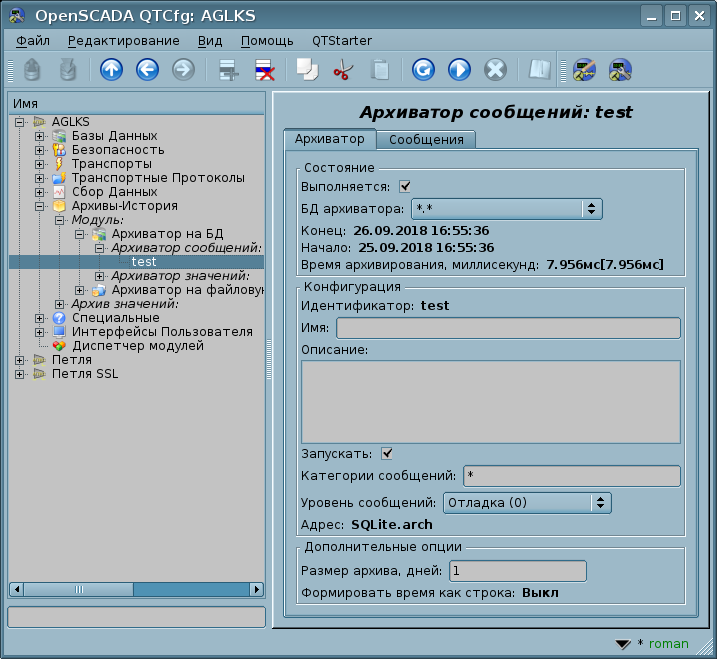
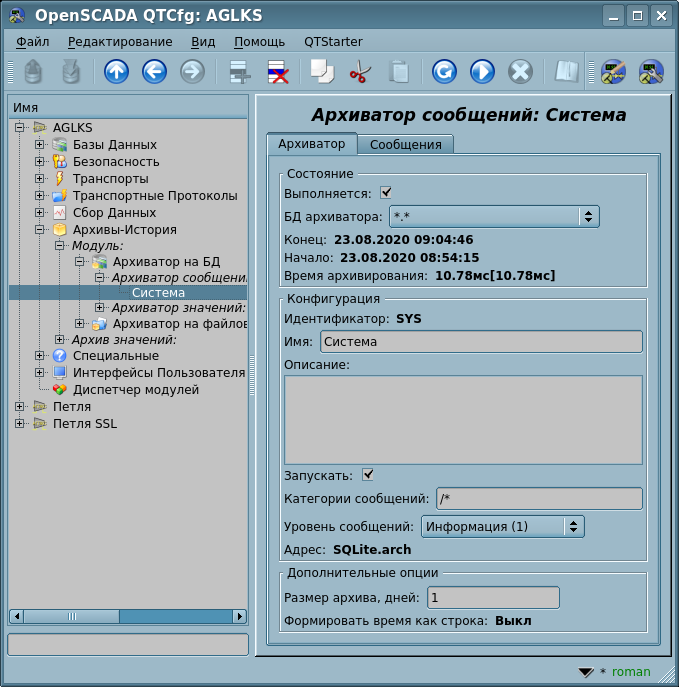
2020-08-23 Roman 0.9.2 - FIX:Archive.DBArch: Fixed for the message "Archiving time, milliseconds" removing the part ", milliseconds".
git-svn-id: svn://oscada.org/tags/openscada_0.9@2706 7bc60720-51fb-0310-bb35-cf765b5d350c

Changed region(s): [[0.0, 0.0, 1.0, 1.0]]

diff --git a/doc/ru/Release_0.9.html b/doc/ru/Release_0.9.html
@@ -308,7 +308,7 @@
 <h2><span class="mw-headline" id=".D0.9E.D0.B1.D0.BD.D0.BE.D0.B2.D0.BB.D0.B5.D0.BD.D0.B8.D1.8F"><span class="mw-headline-number">7</span> Обновления</span></h2>
 <h3><span class="mw-headline" id=".5B17.08.2020.5D_.D0.92.D0.A2.D0.9E.D0.A0.D0.9E.D0.95_.D0.BE.D0.B1.D0.BD.D0.BE.D0.B2.D0.BB.D0.B5.D0.BD.D0.B8.D0.B5"><span class="mw-headline-number">7.1</span> [17.08.2020] ВТОРОЕ обновление</span></h3>
 <div style="float:right; border:1px solid gray; width:300px; padding:2px; margin-left: 10pt; margin-bottom: 10pt;">
-<ul><li> <b>Состояние:</b> <span style="color: red">Перевод</span></li></ul>
+<ul><li> <b>Состояние:</b> Завершено</li></ul>
 <p>Общий процесс выпуска, пользователям для оценки ваших ожиданий и разработчикам для напоминания задач:<br />
 <b><u>1. Неделя подготовки и сборки:</u></b><br />
 </p>
@@ -334,8 +334,13 @@
 <li> Генерация актуальной внесетевой документации используя сервисную процедуру "<a href="Libs_Service_procedures.html#docOffLine" title="Special:MyLanguage/Libs/Service procedures">EXT: Off-line documentation</a>".</li>
 <li> Применение-выгрузка исправлений релиза в репозиторий и сборка этого на предмет второй-конечной сборки.</li></ul>
 </div>
-<p>Это обновление <a href="Release_0.9.html" title="Special:MyLanguage/Documents/Release 0.9">релиза 0.9 LTS</a> исправляет около 60 ошибок и добавляет некоторые улучшения, которые целиком вы можете почитать в <a class="external text" href="http://oscada.org/svn/tags/openscada_0.9/ChangeLog?p=2704" rel="nofollow noreferrer noopener" target="_blank">протоколе изменений обновления</a>.
-</p><p><b><u>OpenSCADA библиотеки и проекты</u></b><br />
+<p>Это обновление <a href="Release_0.9.html" title="Special:MyLanguage/Documents/Release 0.9">релиза 0.9 LTS</a> исправляет около 60 ошибок и добавляет некоторые улучшения, которые целиком вы можете почитать в <a class="external text" href="http://oscada.org/svn/tags/openscada_0.9/ChangeLog?p=2706" rel="nofollow noreferrer noopener" target="_blank">протоколе изменений обновления</a>.
+</p><p><b><u><a class="external" href="http://oscada.org/wiki/Sub-projects/Automation_Linux_distributive" title="Sub-projects/Automation Linux distributive">Linux Дистрибутив Автоматизации проекта OpenSCADA</a></u></b><br />
+</p>
+<ul><li> Завершено усовершенствование KMix в работе с PulseAudio, путём его динамизации патчем "<a class="external text" href="https://bugs.pearsoncomputing.net/show_bug.cgi?id=2782" rel="nofollow noreferrer noopener" target="_blank">kmix-UpdMixersForChangeAndChMaster.patch</a>".</li>
+<li> KRfb (VNC-сервер) был исправлен на предмет аварийного завершения и завершена реализация набора дополнительных клавиш к основной клавиатурной раскладке, в основном Кириллицы, но также и дополнительных UTF символов.</li>
+<li> Завершено обновление перевода <a class="external text" href="http://www.trinitydesktop.org/" rel="nofollow noreferrer noopener" target="_blank">проекта Окружения Рабочего Стола Trinity</a> на Украинский для частей: tdelibs, tdebase, tdenetwork, tdemultimedia, tdepim (в основном), krusader, yakuake.</li></ul>
+<p><b><u>OpenSCADA библиотеки и проекты</u></b><br />
 </p>
 <ul><li> LibsDB.OscadaLibs: Библиотеку Устройств дополнено реализацией протокола IEC-62056 (DevLib.IEC62056). Внесетевая документация дополнена документом "СОГЛАШЕНИЕ О ТЕХНИЧЕСКОЙ ПОДДЕРЖКЕ ПРОГРАММНОГО ОБЕСПЕЧЕНИЯ "OpenSCADA" версии 2 и нового модуля DB.DBGate.</li>
 <li> FIX:LibsDB.vcaBase.Main.alarmsSt: Несколько исправлено на предмет оригинальных сообщений и "quietation" целиком заменено на "confirmation". Восстановлено предотвращение дублированных записей новых нарушений в той самой категории.</li></ul>

diff --git a/doc/uk/Release_0.9.html b/doc/uk/Release_0.9.html
@@ -308,7 +308,7 @@
 <h2><span class="mw-headline" id=".D0.9E.D0.BD.D0.BE.D0.B2.D0.BB.D0.B5.D0.BD.D0.BD.D1.8F"><span class="mw-headline-number">7</span> Оновлення</span></h2>
 <h3><span class="mw-headline" id=".5B17.08.2020.5D_.D0.94.D0.A0.D0.A3.D0.93.D0.95_.D0.BE.D0.BD.D0.BE.D0.B2.D0.BB.D0.B5.D0.BD.D0.BD.D1.8F"><span class="mw-headline-number">7.1</span> [17.08.2020] ДРУГЕ оновлення</span></h3>
 <div style="float:right; border:1px solid gray; width:300px; padding:2px; margin-left: 10pt; margin-bottom: 10pt;">
-<ul><li> <b>Стан:</b> <span style="color: red">Переклад</span></li></ul>
+<ul><li> <b>Стан:</b> Завершено</li></ul>
 <p>Загальний процес випуску, користувачам для оцінки ваших очікувань та розробникам для нагадування завдань:<br />
 <b><u>1. Тиждень приготування та складання:</u></b><br />
 </p>
@@ -334,8 +334,13 @@
 <li> Генерація актуальної позамережевої документації використовуючи сервісну процедуру "<a href="Libs_Service_procedures.html#docOffLine" title="Special:MyLanguage/Libs/Service procedures">EXT: Off-line documentation</a>".</li>
 <li> Застосування-вивантаження виправлень релізу до репозиторію та складання цього щодо другої-кінцевої збірки.</li></ul>
 </div>
-<p>Це оновлення <a href="Release_0.9.html" title="Special:MyLanguage/Documents/Release 0.9">релізу 0.9 LTS</a> виправляє біля 60 помилок та додає деякі удосконалення, які цілком ви можете почитати у <a class="external text" href="http://oscada.org/svn/tags/openscada_0.9/ChangeLog?p=2704" rel="nofollow noreferrer noopener" target="_blank">протоколі змін оновлення</a>.
-</p><p><b><u>OpenSCADA бібліотеки та проекти</u></b><br />
+<p>Це оновлення <a href="Release_0.9.html" title="Special:MyLanguage/Documents/Release 0.9">релізу 0.9 LTS</a> виправляє біля 60 помилок та додає деякі удосконалення, які цілком ви можете почитати у <a class="external text" href="http://oscada.org/svn/tags/openscada_0.9/ChangeLog?p=2706" rel="nofollow noreferrer noopener" target="_blank">протоколі змін оновлення</a>.
+</p><p><b><u><a class="external" href="http://oscada.org/wiki/Sub-projects/Automation_Linux_distributive" title="Sub-projects/Automation Linux distributive">Linux Дистрибутив Автоматизації проекту OpenSCADA</a></u></b><br />
+</p>
+<ul><li> Завершено вдосконалення KMix щодо роботи із PulseAudio, шляхом його динамізації патчем "<a class="external text" href="https://bugs.pearsoncomputing.net/show_bug.cgi?id=2782" rel="nofollow noreferrer noopener" target="_blank">kmix-UpdMixersForChangeAndChMaster.patch</a>".</li>
+<li> KRfb (VNC-сервер) було виправлено стосовно аварійного завершення та завершено реалізацію набору додаткових клавіш до основної клавіатурної розкладки, переважно Кирилиці, але також і додаткових UTF символів.</li>
+<li> Завершене оновлення перекладу <a class="external text" href="http://www.trinitydesktop.org/" rel="nofollow noreferrer noopener" target="_blank">проекту Оточення Стільниці Trinity</a> Українською для частин: tdelibs, tdebase, tdenetwork, tdemultimedia, tdepim (переважно), krusader, yakuake.</li></ul>
+<p><b><u>OpenSCADA бібліотеки та проекти</u></b><br />
 </p>
 <ul><li> LibsDB.OscadaLibs: Бібліотеку Пристроїв доповнено реалізацією протоколу IEC-62056 (DevLib.IEC62056). Позамережеву документацію доповнено документом "УГОДА ПРО ТЕХНІЧНУ ПІДТРИМКУ ПРОГРАМНОГО ЗАБЕЗПЕЧЕННЯ "OpenSCADA" версії 2 та нового модуля DB.DBGate.</li>
 <li> FIX:LibsDB.vcaBase.Main.alarmsSt: Дещо виправлено щодо оригінальних повідомлень та "quietation" цілковито замінено на "confirmation". Відновлено попередження дубльованих записів нових порушень у тій самій категорії.</li></ul>

diff --git a/doc/en/Release_0.9.html b/doc/en/Release_0.9.html
@@ -308,7 +308,7 @@
 <h2><span class="mw-headline" id="Updates"><span class="mw-headline-number">7</span> Updates</span></h2>
 <h3><span class="mw-headline" id=".5B17.08.2020.5D_The_SECOND_update"><span class="mw-headline-number">7.1</span> [17.08.2020] The SECOND update</span></h3>
 <div style="float:right; border:1px solid gray; width:300px; padding:2px; margin-left: 10pt; margin-bottom: 10pt;">
-<ul><li> <b>State:</b> <span style="color: red">Translation</span></li></ul>
+<ul><li> <b>State:</b> Completed</li></ul>
 <p>The common releasing process, for the users to estimate your expectations and for the developers to remind the tasks:<br />
 <b><u>1. The preparing and building week:</u></b><br />
 </p>
@@ -334,8 +334,13 @@
 <li> Generating the actual offline documentation using the service procedure "<a href="Libs_Service_procedures.html#docOffLine" title="Special:MyLanguage/Libs/Service procedures">EXT: Off-line documentation</a>".</li>
 <li> Committing the release fixes to the repository and building that for the second-final build.</li></ul>
 </div>
-<p>This update of the <a href="Release_0.9.html" title="Special:MyLanguage/Documents/Release 0.9">0.9 LTS release</a> fixes about 60 bugs and appends some improvements, which you can read wholly in <a class="external text" href="http://oscada.org/svn/tags/openscada_0.9/ChangeLog?p=2704" rel="nofollow noreferrer noopener" target="_blank">the update ChangeLog</a>.
-</p><p><b><u>OpenSCADA libraries and projects</u></b><br />
+<p>This update of the <a href="Release_0.9.html" title="Special:MyLanguage/Documents/Release 0.9">0.9 LTS release</a> fixes about 60 bugs and appends some improvements, which you can read wholly in <a class="external text" href="http://oscada.org/svn/tags/openscada_0.9/ChangeLog?p=2706" rel="nofollow noreferrer noopener" target="_blank">the update ChangeLog</a>.
+</p><p><b><u><a class="external" href="http://oscada.org/wiki/Sub-projects/Automation_Linux_distributive" title="Sub-projects/Automation Linux distributive">Automation Linux distributive of the project OpenSCADA</a></u></b><br />
+</p>
+<ul><li> KMix was completed in improving the work with PulseAudio by making dynamic in the patch "<a class="external text" href="https://bugs.pearsoncomputing.net/show_bug.cgi?id=2782" rel="nofollow noreferrer noopener" target="_blank">kmix-UpdMixersForChangeAndChMaster.patch</a>".</li>
+<li> KRfb (VNC-server) was fixed for crashed and completed in implementation typing the additional keys to the main keyboard layout, Cyrillic mostly but allowed for additional UTF symbols also.</li>
+<li> Complete translation updating of the <a class="external text" href="http://www.trinitydesktop.org/" rel="nofollow noreferrer noopener" target="_blank">Trinity Desktop Environment project</a> to Ukrainian for the parts: tdelibs, tdebase, tdenetwork, tdemultimedia, tdepim (mostly), krusader, yakuake.</li></ul>
+<p><b><u>OpenSCADA libraries and projects</u></b><br />
 </p>
 <ul><li> LibsDB.OscadaLibs: The Devices Library appended for the protocol IEC-62056 implementation (DevLib.IEC62056). The offline documentation appended for the document "AGREEMENT ON TECHNICAL SUPPORT OF THE "OpenSCADA" SOFTWARE" version 2 and the new module DB.DBGate.</li>
 <li> FIX:LibsDB.vcaBase.Main.alarmsSt: Some fixed for the original messages and the "quietation" completely replaced by "confirmation". Restored in preventing the duplicate entries for new alarms in that category.</li></ul>

diff --git a/doc/en/To_do.html b/doc/en/To_do.html
@@ -78,7 +78,7 @@
 <tr>
 <td>
 <h3><span class="mw-headline" id="Testing.2C_optimization_and_fixing"><span class="mw-headline-number">4</span> <span id="TestOptFix" title="#TestOptFix">Testing, optimization and fixing</span></span></h3>
-<ul><li> <a class="image" href="http://oscada.org/wiki/File:At.png"><img alt="At.png" height="22" src="files/At.png" width="22" /></a> [TESTING] Implement the asynchronous writing with a function of preventing the data loss on the time of the connection missing for the key DAQ-modules of the OpenSCADA internal procedures: <a href="Modules/DAQGate.html" title="Special:MyLanguage/Modules/DAQGate">DAQGate</a>, <a href="Modules/ICP_DAS.html" title="Special:MyLanguage/Modules/ICP DAS">ICP_DAS</a>, <a href="Modules/DCON.html" title="Special:MyLanguage/Modules/DCON">DCON</a>, <a href="Modules/SMH2Gi.html" title="Special:MyLanguage/Modules/SMH2Gi">SMH2Gi</a>. The function currently tested on the module <a href="Modules/ModBus.html" title="Special:MyLanguage/Modules/ModBus">ModBus</a>.</li>
+<ul><li> <a class="image" href="http://oscada.org/wiki/File:At.png"><img alt="At.png" height="22" src="files/At.png" width="22" /></a> [TESTING] Implement the asynchronous writing with a function of preventing the data loss on the time of the connection missing for the key DAQ-modules of the OpenSCADA internal procedures: <a href="Modules/DAQGate.html" title="Special:MyLanguage/Modules/DAQGate">DAQGate</a>, <a href="Modules/ICP_DAS.html" title="Special:MyLanguage/Modules/ICP DAS">ICP_DAS</a>, <a href="Modules/DCON.html" title="Special:MyLanguage/Modules/DCON">DCON</a>. The function currently tested on the module <a href="Modules/ModBus.html" title="Special:MyLanguage/Modules/ModBus">ModBus</a>.</li>
 <li> <i>UI.{Vision,WebVision}</i>: Complete revision of the primitive "ElFigure" implementation, what needs:</li></ul>
 <dl><dd>- BUG: selecting multiple figures at hold the key "Ctrl";</dd>
 <dd>- BUG: clearing the copy buffer after selected items copy — impossible for the copy repeat;</dd>

diff --git a/doc/ru/Modules/DBArch.html b/doc/ru/Modules/DBArch.html
@@ -66,7 +66,7 @@
 <ul><li> <i>ArchID</i> — идентификатор архиватора сообщений.</li></ul>
 <p>Модулем предоставляются дополнительные параметры настройки процесса архивирования, рисунок 1.
 </p>
-<div class="center"><div class="thumb tnone"><div class="thumbinner" style="width:719px;"><a class="image" href="http://oscada.org/wiki/File:DBArch_mess_a_prm_ru.png"><img class="thumbimage" height="659" src="../files/DBArch_mess_a_prm_ru.png" width="717" /></a>  <div class="thumbcaption">Рис.1. Дополнительные параметры настройки процесса архивирования сообщений.</div></div></div></div>
+<div class="center"><div class="thumb tnone"><div class="thumbinner" style="width:681px;"><a class="image" href="http://oscada.org/wiki/File:DBArch_mess_a_prm_ru.png"><img class="thumbimage" height="687" src="../files/DBArch_mess_a_prm_ru.png" width="679" /></a>  <div class="thumbcaption">Рис.1. Дополнительные параметры настройки процесса архивирования сообщений.</div></div></div></div>
 <p>В число дополнительных параметров входят:
 </p>
 <ul><li> <i>Размер архива, дней</i> — определяет размер архива по времени. После превышения лимита старые записи начнут удаляться! Установить в 0 для отключения данного лимита и некоторого повышения производительности.</li>

diff --git a/doc/uk/Modules/DBArch.html b/doc/uk/Modules/DBArch.html
@@ -66,7 +66,7 @@
 <ul><li> <i>ArchID</i> — ідентифікатор архіватору повідомлень.</li></ul>
 <p>Модулем надаються додаткові параметри налаштування процесу архівування, рисунок 1.
 </p>
-<div class="center"><div class="thumb tnone"><div class="thumbinner" style="width:712px;"><a class="image" href="http://oscada.org/wiki/File:DBArch_mess_a_prm_uk.png"><img class="thumbimage" height="659" src="../files/DBArch_mess_a_prm_uk.png" width="710" /></a>  <div class="thumbcaption">Рис.1. Додаткові параметри налаштування процесу архівування повідомлень.</div></div></div></div>
+<div class="center"><div class="thumb tnone"><div class="thumbinner" style="width:681px;"><a class="image" href="http://oscada.org/wiki/File:DBArch_mess_a_prm_uk.png"><img class="thumbimage" height="687" src="../files/DBArch_mess_a_prm_uk.png" width="679" /></a>  <div class="thumbcaption">Рис.1. Додаткові параметри налаштування процесу архівування повідомлень.</div></div></div></div>
 <p>До числа додаткових параметрів входять:
 </p>
 <ul><li> <i>Розмір архіву, днів</i> — визначає розмір архіву за часом. Після перевищення ліміту старі записи почнуть видалятися! Встановити у 0 для вимкнення обмеження та деякого підвищення продуктивності.</li>

diff --git a/doc/en/Modules/DBArch.html b/doc/en/Modules/DBArch.html
@@ -66,7 +66,7 @@
 <ul><li> <i>ArchID</i> — identifier of the message archiver.</li></ul>
 <p>The module provides additional settings for the archiving process, Figure 1.
 </p>
-<div class="center"><div class="thumb tnone"><div class="thumbinner" style="width:687px;"><a class="image" href="http://oscada.org/wiki/File:DBArch_mess_a_prm.png"><img class="thumbimage" height="665" src="../files/DBArch_mess_a_prm.png" width="685" /></a>  <div class="thumbcaption">Fig.1. Additional settings of the message archiving process.</div></div></div></div>
+<div class="center"><div class="thumb tnone"><div class="thumbinner" style="width:677px;"><a class="image" href="http://oscada.org/wiki/File:DBArch_mess_a_prm.png"><img class="thumbimage" height="687" src="../files/DBArch_mess_a_prm.png" width="675" /></a>  <div class="thumbcaption">Fig.1. Additional settings of the message archiving process.</div></div></div></div>
 <p>These additional parameters:
 </p>
 <ul><li> <i>Archive size, days</i> — determines the size of the archive over time. After exceeding the limit the old records will be deleted! Set to 0 to disable this limit and to rise some the performance.</li>

diff --git a/src/moduls/arhiv/DBArch/mess.cpp b/src/moduls/arhiv/DBArch/mess.cpp
@@ -266,7 +266,7 @@ void ModMArch::cntrCmdProc( XMLNode *opt )
     if(opt->name() == "info") {
 	TMArchivator::cntrCmdProc(opt);
 	ctrRemoveNode(opt,"/prm/cfg/A_PRMS");
-	ctrMkNode("fld",opt,-1,"/prm/st/tarch",_("Archiving time, milliseconds"),R_R_R_,"root",SARH_ID,1,"tp","real");
+	ctrMkNode("fld",opt,-1,"/prm/st/tarch",_("Archiving time"),R_R_R_,"root",SARH_ID,1,"tp","str");
 	ctrMkNode("fld",opt,-1,"/prm/cfg/ADDR",EVAL_STR,startStat()?R_R_R_:RWRWR_,"root",SARH_ID,3,
 	    "dest","select","select","/db/list","help",TMess::labDB());
 	if(ctrMkNode("area",opt,-1,"/prm/add",_("Additional options"),R_R_R_,"root",SARH_ID)) {

diff --git a/src/moduls/arhiv/DBArch/arch.cpp b/src/moduls/arhiv/DBArch/arch.cpp
@@ -34,7 +34,7 @@
 #define MOD_NAME	_("Archiver on the DB")
 #define MOD_TYPE	SARH_ID
 #define VER_TYPE	SARH_VER
-#define MOD_VER		"2.9.0"
+#define MOD_VER		"2.9.1"
 #define AUTHORS		_("Roman Savochenko")
 #define DESCRIPTION	_("The archiver module. Provides functions for messages and values archiving to the DB.")
 #define LICENSE		"GPL2"
